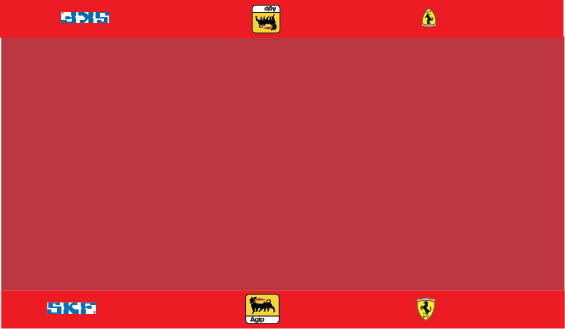
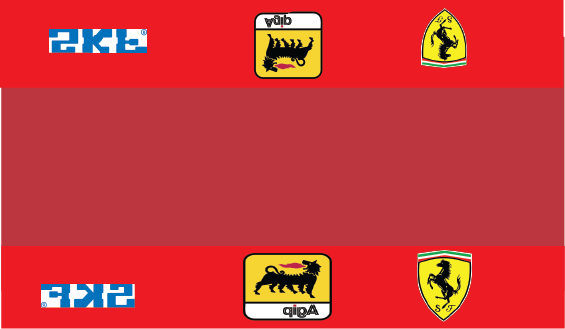
higher resolution textures

diff --git a/src/Kadlub.h b/src/Kadlub.h
@@ -30,20 +30,20 @@ private:
 		-0.2f, -0.5f, -0.1f,		0.9f,  0.0f,// 12
 		-0.2f, -0.4f, -0.1f,		0.8f,  0.0f,// 13
 
-		-0.4f, 0.0f, 0.1f,		0.5f,  0.1f,// 14
-		-0.4f, 0.2f, 0.1f,		0.4f,  0.1f,// 15
-		-0.2f, 0.6f, 0.1f,		0.0f,  0.1f,// 16
-		0.2f, 0.6f, 0.1f,		0.0f,  0.9f,// 17
-		0.4f, 0.2f, 0.1f,		0.4f,  0.9f,// 18
-		0.4f, 0.0f, 0.1f,		0.5f,  0.9f,// 19
-		0.2f, -0.4f, 0.1f,		0.8f,  0.9f,// 20
-		0.2f, -0.5f, 0.1f,		0.9f,  0.9f,// 21
+		-0.4f, 0.0f, 0.1f,		0.5f,  0.27f,// 14
+		-0.4f, 0.2f, 0.1f,		0.4f,  0.27f,// 15
+		-0.2f, 0.6f, 0.1f,		0.0f,  0.27f,// 16
+		0.2f, 0.6f, 0.1f,		0.0f,  0.75f,// 17
+		0.4f, 0.2f, 0.1f,		0.4f,  0.75f,// 18
+		0.4f, 0.0f, 0.1f,		0.5f,  0.75f,// 19
+		0.2f, -0.4f, 0.1f,		0.8f,  0.745f,// 20
+		0.2f, -0.5f, 0.1f,		0.9f,  0.745f,// 21
 		0.18f, -0.5f, 0.1f,		0.91f,  1.0f,// 22
 		0.18f, -0.4f, 0.1f,		0.1f,  0.2f,// 23
 		-0.18f, -0.4f, 0.1f,	0.0f,  0.2f,// 24
 		-0.18f, -0.5f, 0.1f,	0.95f,  0.1f,// 25
-		-0.2f, -0.5f, 0.1f,		0.9f,  0.1f,// 26
-		-0.2f, -0.4f, 0.1f,		0.8f,  0.1f,// 27
+		-0.2f, -0.5f, 0.1f,		0.9f,  0.27f,// 26
+		-0.2f, -0.4f, 0.1f,		0.8f,  0.27f,// 27
 		0.1f , -0.55f , 0.1f,	1.0f,0.4f,  //28
 		-0.1f,-0.55f,0.1f,		1.0f,0.4f,  //29
 
@@ -55,7 +55,7 @@ private:
 		0.02f,-0.4f,-0.1f,    0.03f,1.0f,   //35
 
 		-0.02f,-0.4f,0.1f,    0.8f,0.4f,   //36
-		-0.2f,-0.1f,0.1f,    0.55f,0.3f,   //37
+		-0.2f,-0.1f,0.1f,    0.55f,0.35f,   //37
 		-0.2f,0.0f,0.1f,    0.65f,0.5f,   //38
 		0.2f,0.0f,0.1f,    0.65f,0.55f,   //39
 		0.2f,-0.1f,0.1f,    0.55f,0.7f,   //40

diff --git a/src/Bolid.cpp b/src/Bolid.cpp
@@ -41,6 +41,16 @@ void Bolid::shaderUse() {
 	//przedniSpoiler.shaderUse();
 	//tylnySpoiler.shaderUse();
 }
+void Bolid::translate(const glm::vec3& translateVector) {
+	kadlub.translate(translateVector);
+	przedniSpoiler.translate(translateVector);
+	tylnySpoiler.translate(translateVector);
+}
+void Bolid::rotate(float angle, const glm::vec3& rotationAxis) {
+	kadlub.rotate(angle, rotationAxis);
+	przedniSpoiler.rotate(angle, rotationAxis);
+	tylnySpoiler.rotate(angle, rotationAxis);
+}
 void Bolid::rotate(float angle, const glm::vec3& rotationAxis, const glm::vec3& fixedPoint) {
 	kadlub.rotate(angle, rotationAxis, fixedPoint);
 	przedniSpoiler.rotate(angle, rotationAxis, fixedPoint);

diff --git a/src/test.cpp b/src/test.cpp
@@ -135,7 +135,7 @@ int main()
 
 			bolid.shaderUse();
 			bolid.setProjectionView(projection, view);
-			bolid.rotate(rotAngle, glm::vec3(0.0, 1.0, 0.0),glm::vec3(0.0,0.0,0.0));
+			//bolid.rotate(rotAngle, glm::vec3(0.0, 1.0, 0.0),glm::vec3(0.0,0.0,0.0));
 			bolid.draw();
 
 			
